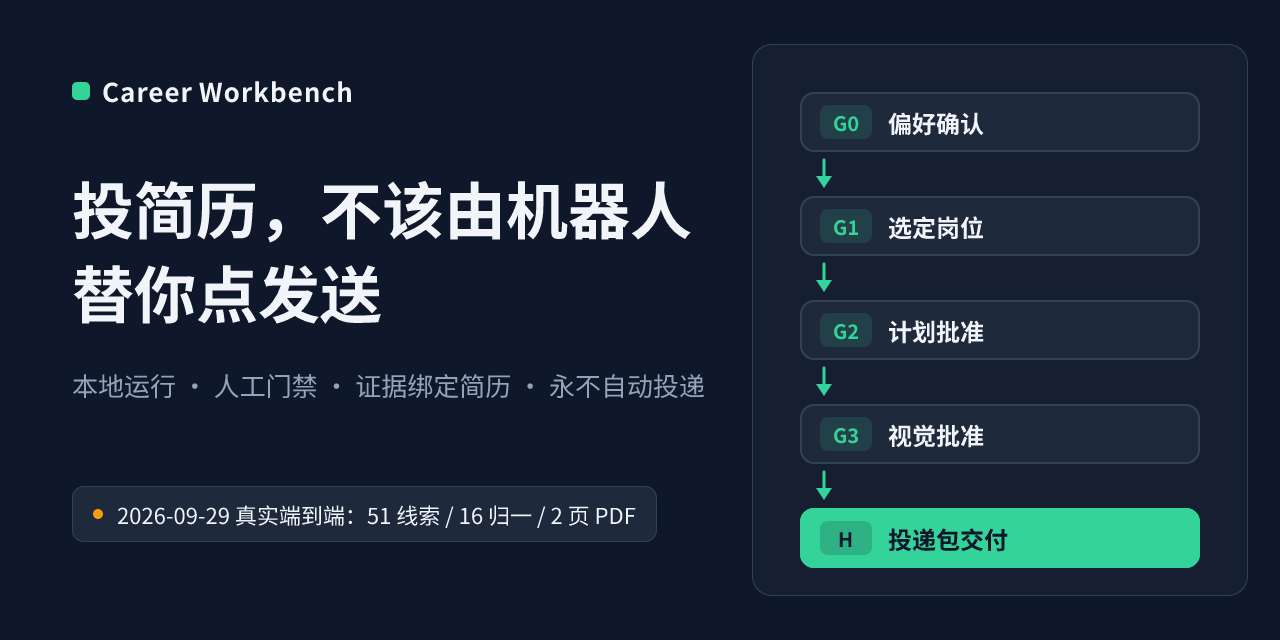
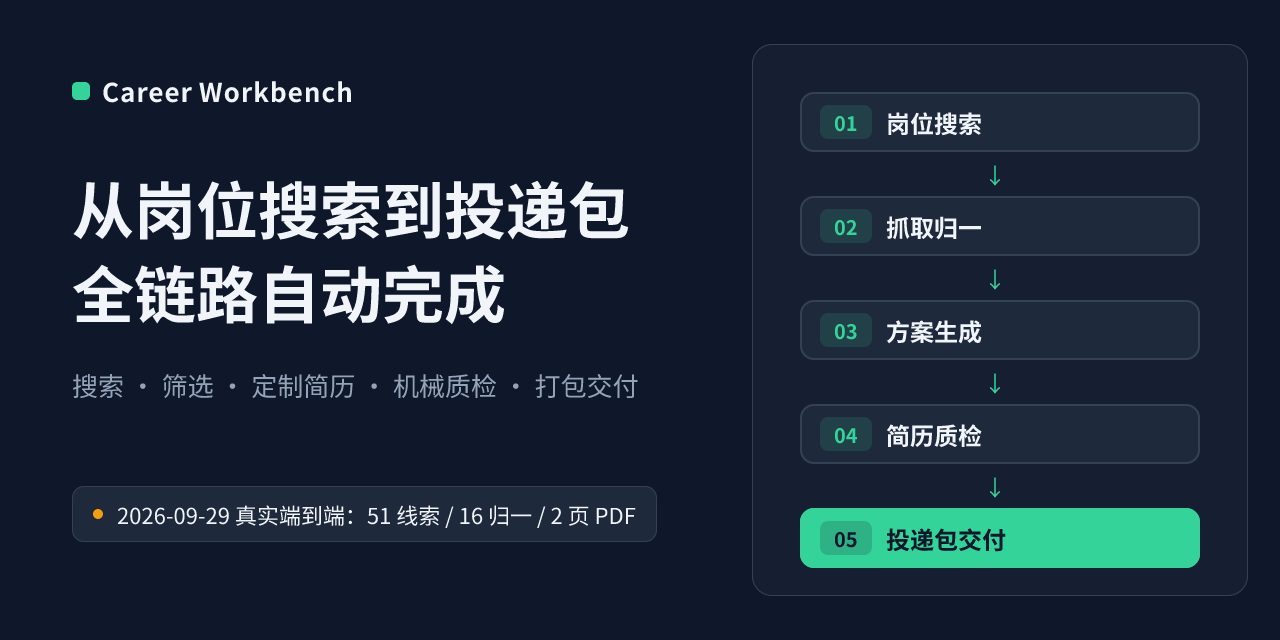
Career Workbench: single-page showcase release

diff --git a/README.md b/README.md
@@ -1,10 +1,10 @@
 <p align="center">
-  <img src="./assets/career-workbench-hero.png" width="640" alt="Career Workbench 主视觉:投简历,不该由机器人替你点发送;右侧为 G0→G3 人工门禁轨道">
+  <img src="./assets/career-workbench-hero.png" width="640" alt="Career Workbench 主视觉:从岗位搜索到投递包全链路自动完成;右侧为 搜索→抓取归一→方案生成→简历质检→投递包交付 的自动化流水线">
 </p>
 
 <h1 align="center">Career Workbench</h1>
 
-<p align="center">本地运行的人工门禁求职工作台:把你的战役偏好变成经过证据绑定、机械 QA、本人逐关批准的投递包——链路止于交付,永不自动投递。</p>
+<p align="center">本地运行的求职自动化流水线:岗位搜索、抓取归一、方案生成、证据绑定简历、机械 QA、打包交付全链路由 Agent 自动完成,一次真实运行产出 51 条线索、16 个归一岗位和一份 2 页 A4 投递包。当前版本在四个节点保留人工确认(见[能力与边界](#gs-capabilities)),最终投递动作尚未自动化。</p>
 
 ## 页内导航
 
@@ -15,22 +15,24 @@
 
 | 亮点 | 对使用者的价值 |
 |---|---|
-| 四道人工门禁(G0 偏好 → G1 选岗 → G2 方案 → G3 视觉),全部留 Owner 动作记录 | 每个不可逆决定都是你亲手做的,Agent 只准备材料 |
+| 搜索→抓取→归一化→方案→简历→QA→交付,一条流水线跑完求职核心链路 | 你只看结果:真实的候选岗位表、可审阅的投递方案、渲染好的 2 页简历,而不是一堆待办 |
 | 真实搜索与抓取,归一化三池(合格/待核实/排除) | 搜索结果只算线索,绝不冒充"合格岗位";每条分类可看风险标记 |
-| 计划与简历内容绑定逐字引用与输入哈希 | 简历里的每句话能回溯到 Master 原文或抓取正文,防编造 |
-| 2 页 A4 PDF + 机械 QA(页数/项目齐全/保护文本/行预算) | 渲染失败回计划修订,从不悄悄删内容或硬塞第三页 |
-| 交接包(完整 JD/研究/PDF/岗位卡) | 打包即止;投递动作永远由你本人完成 |
+| 计划与简历内容绑定逐字引用与输入哈希 | 简历里的每句话能回溯到 Master 原文或抓取正文,机器批量产出也不编造 |
+| 2 页 A4 PDF + 机械 QA(页数/项目齐全/保护文本/行预算) | 渲染失败自动回计划修订,从不悄悄删内容或硬塞第三页 |
+| 交接包(完整 JD/研究/PDF/岗位卡) | 打包即交:拿到手的就是可以直接投递的完整材料 |
+
+与常见的一键生成式 AI 求职工具的区别:那些工具把搜索结果当匹配结果、把模型输出直接当简历;本项目的流水线每一步都有确定性校验——搜索结果只归入线索池、简历内容逐句绑定证据、PDF 经机械 QA,校验失败自动回退重做,而不是把半成品交给你。
 
 <a name="gs-workflow"></a>
 ## 工作流：黄金旅程
 
-下面是一次真实端到端运行(2026-09-29,无 fixture、无 mock):51 条搜索线索 → 16 条归一(合格 2 / 待核实 8 / 排除 6)→ 本人选岗 → 方案修订一次后批准 → 2 页 A4 PDF(机械 QA 全绿)→ 本人视觉批准 → 8 文件交接包(278KB)。四条泳道对应四道人工门禁;任何 QA 失败都会回退到计划修订而不是硬造产物;交接之后由你本人投递。
+下面是一次真实端到端运行(2026-09-29,无 fixture、无 mock):51 条搜索线索 → 16 条归一(合格 2 / 待核实 8 / 排除 6)→ 方案修订一次后批准 → 2 页 A4 PDF(机械 QA 全绿)→ 8 文件交接包(278KB)。搜索、抓取、归一化、方案与简历生成全部在机器侧自动批量完成;QA 失败自动回退到计划修订而不是硬造产物。
 
 <p align="center">
-  <img src="./assets/career-golden-journey.png" width="720" alt="黄金旅程工作流:四条泳道,G0/G1/G2/G3 人工门禁,QA 失败回计划修订,交接后人工投递">
+  <img src="./assets/career-golden-journey.png" width="720" alt="黄金旅程工作流:四条泳道,搜索/抓取/归一化/方案/简历生成自动完成,G0-G3 四处人工确认,QA 失败回计划修订">
 </p>
 
-要点:搜索→抓取→归一化全部在机器侧批量完成,但**进入投递包的每一步都需要本人点击确认**;方案被退回过一次(修订环是正常路径,不是异常)。
+要点:方案被退回过一次(修订环是自动流程的正常路径,不是异常);运行中的人工作用只有四处点击确认(见[能力与边界](#gs-capabilities))。
 
 <p align="center"><a href="./assets/career-golden-journey.html">打开交互式工作流图(本地 HTML,可选增强)</a></p>
 
@@ -140,13 +142,13 @@ powershell -NoProfile -ExecutionPolicy Bypass -File career_v0/stop-workbench.ps1
 
 状态词汇:**已实现**(有引用证据)· **已设计**(有设计,未构建)· **不可用**(尝试过,被阻塞)。
 
-**已实现**:G0 战役偏好确认(角色/城市/薪资基准/未知薪资策略/三保护身份信号);真实岗位搜索与抓取、归一化三池(搜索结果只计线索,绝不自动计为合格);候选批次 XLSX 往返(导出→外部编辑→上传预览);裁剪计划 + G2 批准(含修订环);证据绑定简历内容(HERO/COMPACT 分层);PDF 渲染 + 机械 QA;G3 视觉批准 + 交接压缩包;Owner 动作认证(浏览器不可伪造审批,匿名访问 API 实测 401);Truth Guard 证据声明校验(确定性文本分析,非 LLM);一键启动/停止(URL 自纠 + 端口直查)。以上均有黄金旅程或测试证据。
+**已实现**:G0 战役偏好确认(角色/城市/薪资基准/未知薪资策略/三保护身份信号);真实岗位搜索与抓取、归一化三池(搜索结果只计线索,绝不自动计为合格);候选批次 XLSX 往返(导出→外部编辑→上传预览);裁剪计划生成(含修订环);证据绑定简历内容(HERO/COMPACT 分层);PDF 渲染 + 机械 QA;交接压缩包;Owner 动作认证(浏览器不可伪造审批,匿名访问 API 实测 401);Truth Guard 证据声明校验(确定性文本分析,非 LLM);一键启动/停止(URL 自纠 + 端口直查)。以上均有黄金旅程或测试证据。
 
 **已设计未构建**:多战役导航/历史 UX(现有数据可跨刷新恢复,切换体验待打磨);通知草稿(飞书/邮件 Draft 级,依赖外部凭据)。
 
 **不可用/限制**:公司公开源搜索 provider 在端点余额不足或无联网插件时不可用,JD-first 主流程不受影响;真实公司源链路已在合成测试中验证但尚未经 Web 页面走完。
 
-**设计红线**:自动投递/自动发送永不实现——没有 send/submit 工具,投递永远由你本人完成。
+**本版的自动化缺口(如实)**:流水线上的四个节点仍需人工确认——G0 偏好确认、G1 选岗、G2 方案批准、G3 简历视觉批准;自动投递/自动发送未实现(没有 send/submit 工具)。这四个确认点与最终投递动作是当前版本尚未自动化的部分,流水线的其余环节(搜索、抓取、归一化、方案与简历生成、QA、打包)均为机器自动完成。
 
 <a name="gs-verification"></a>
 ## 验证与已知限制
